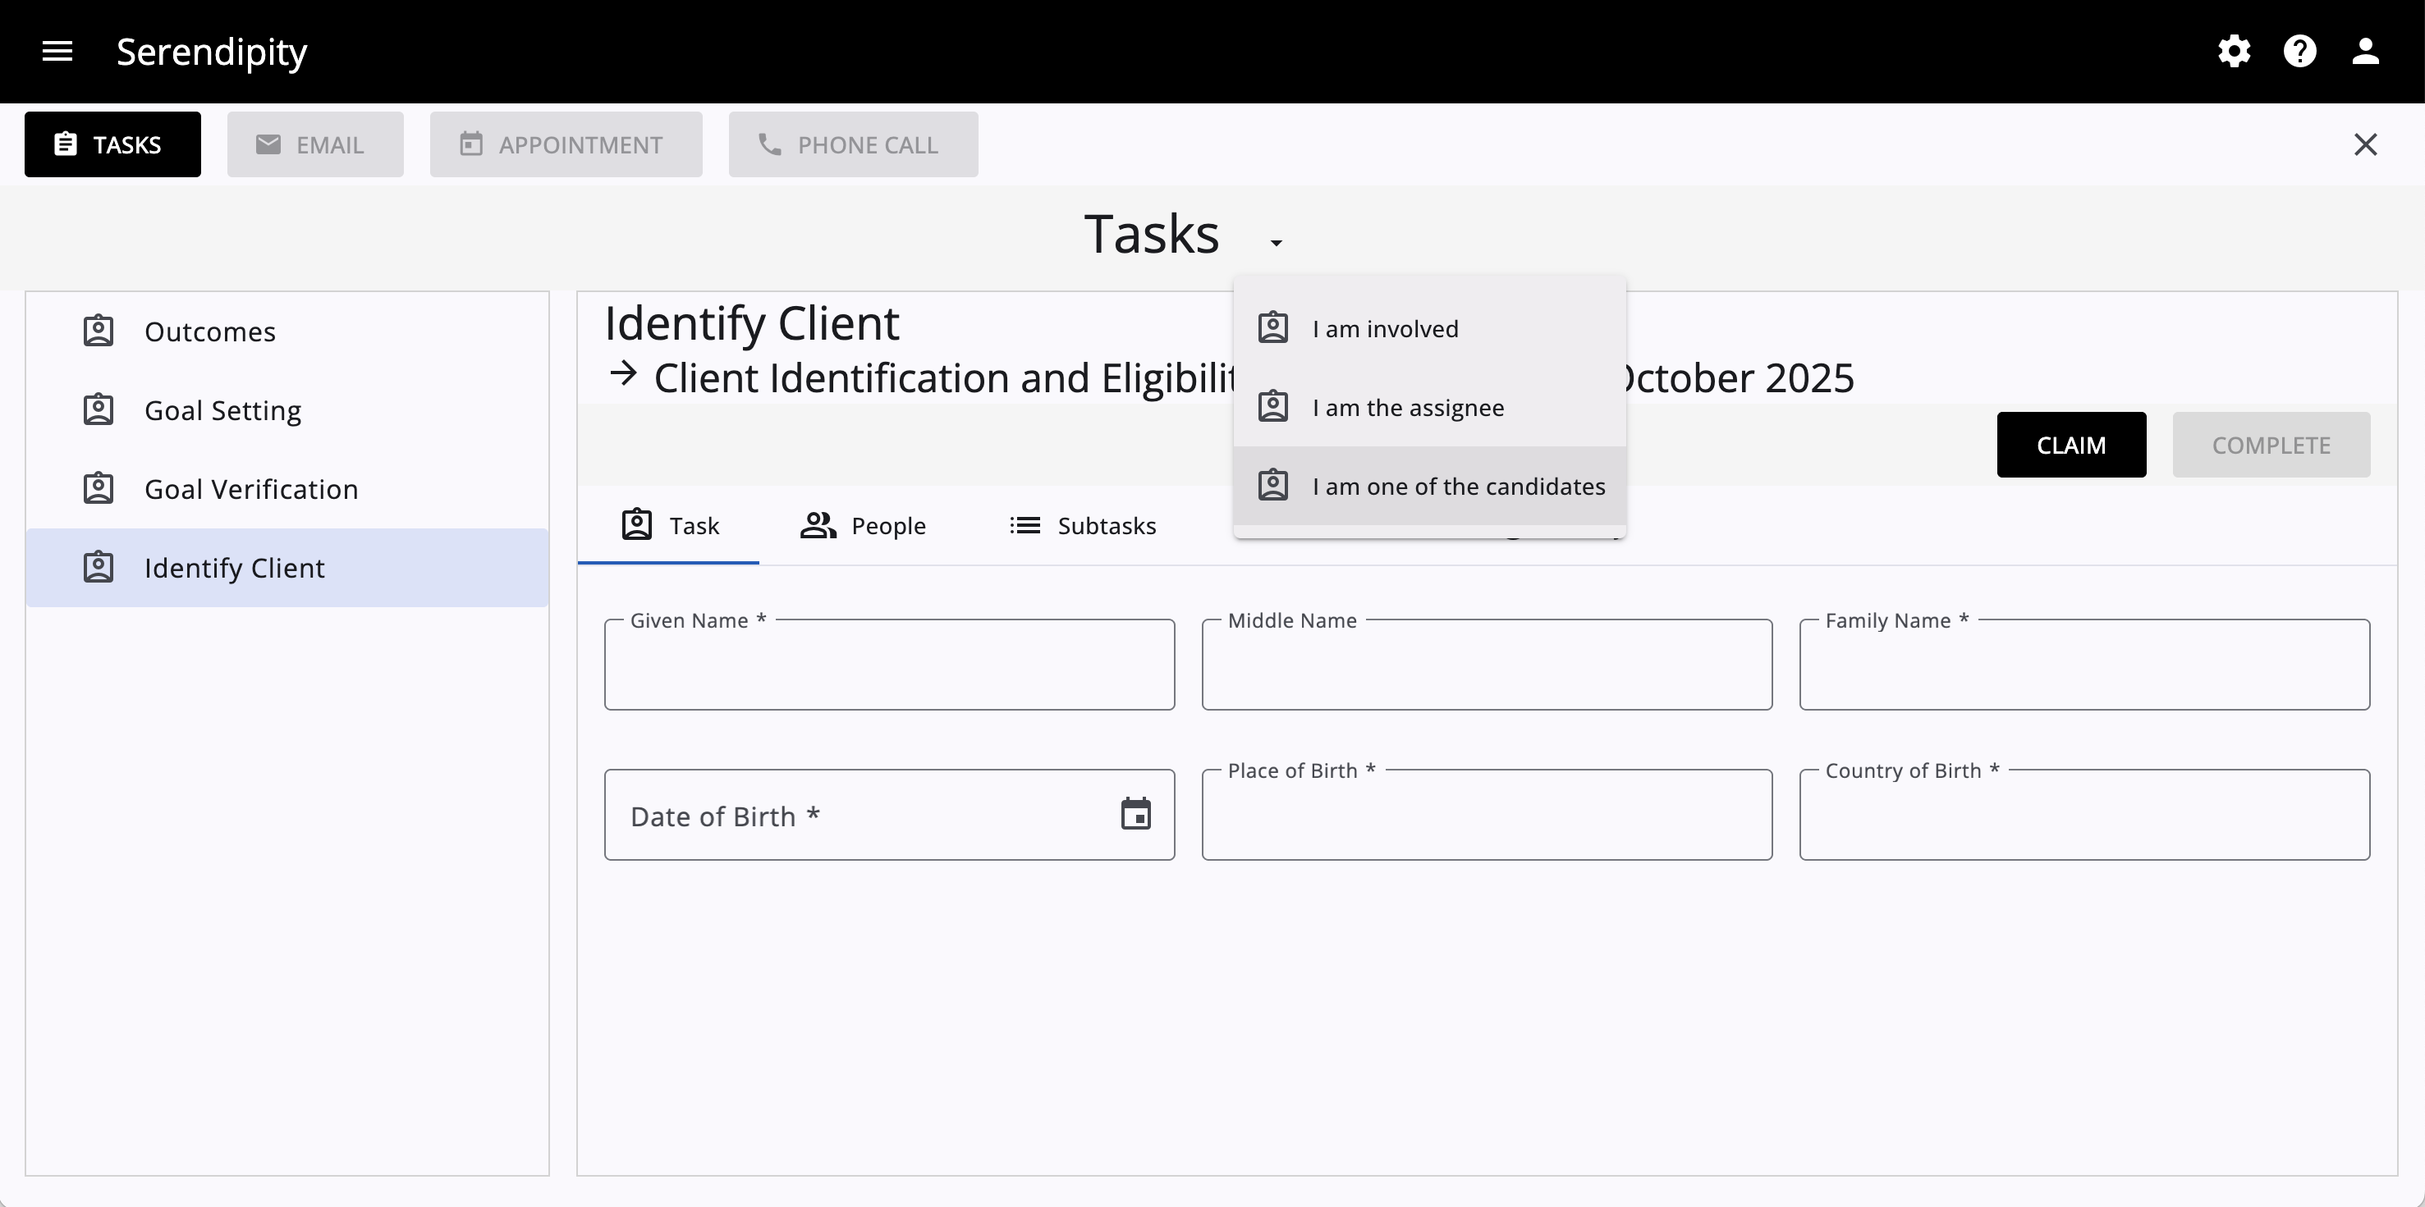
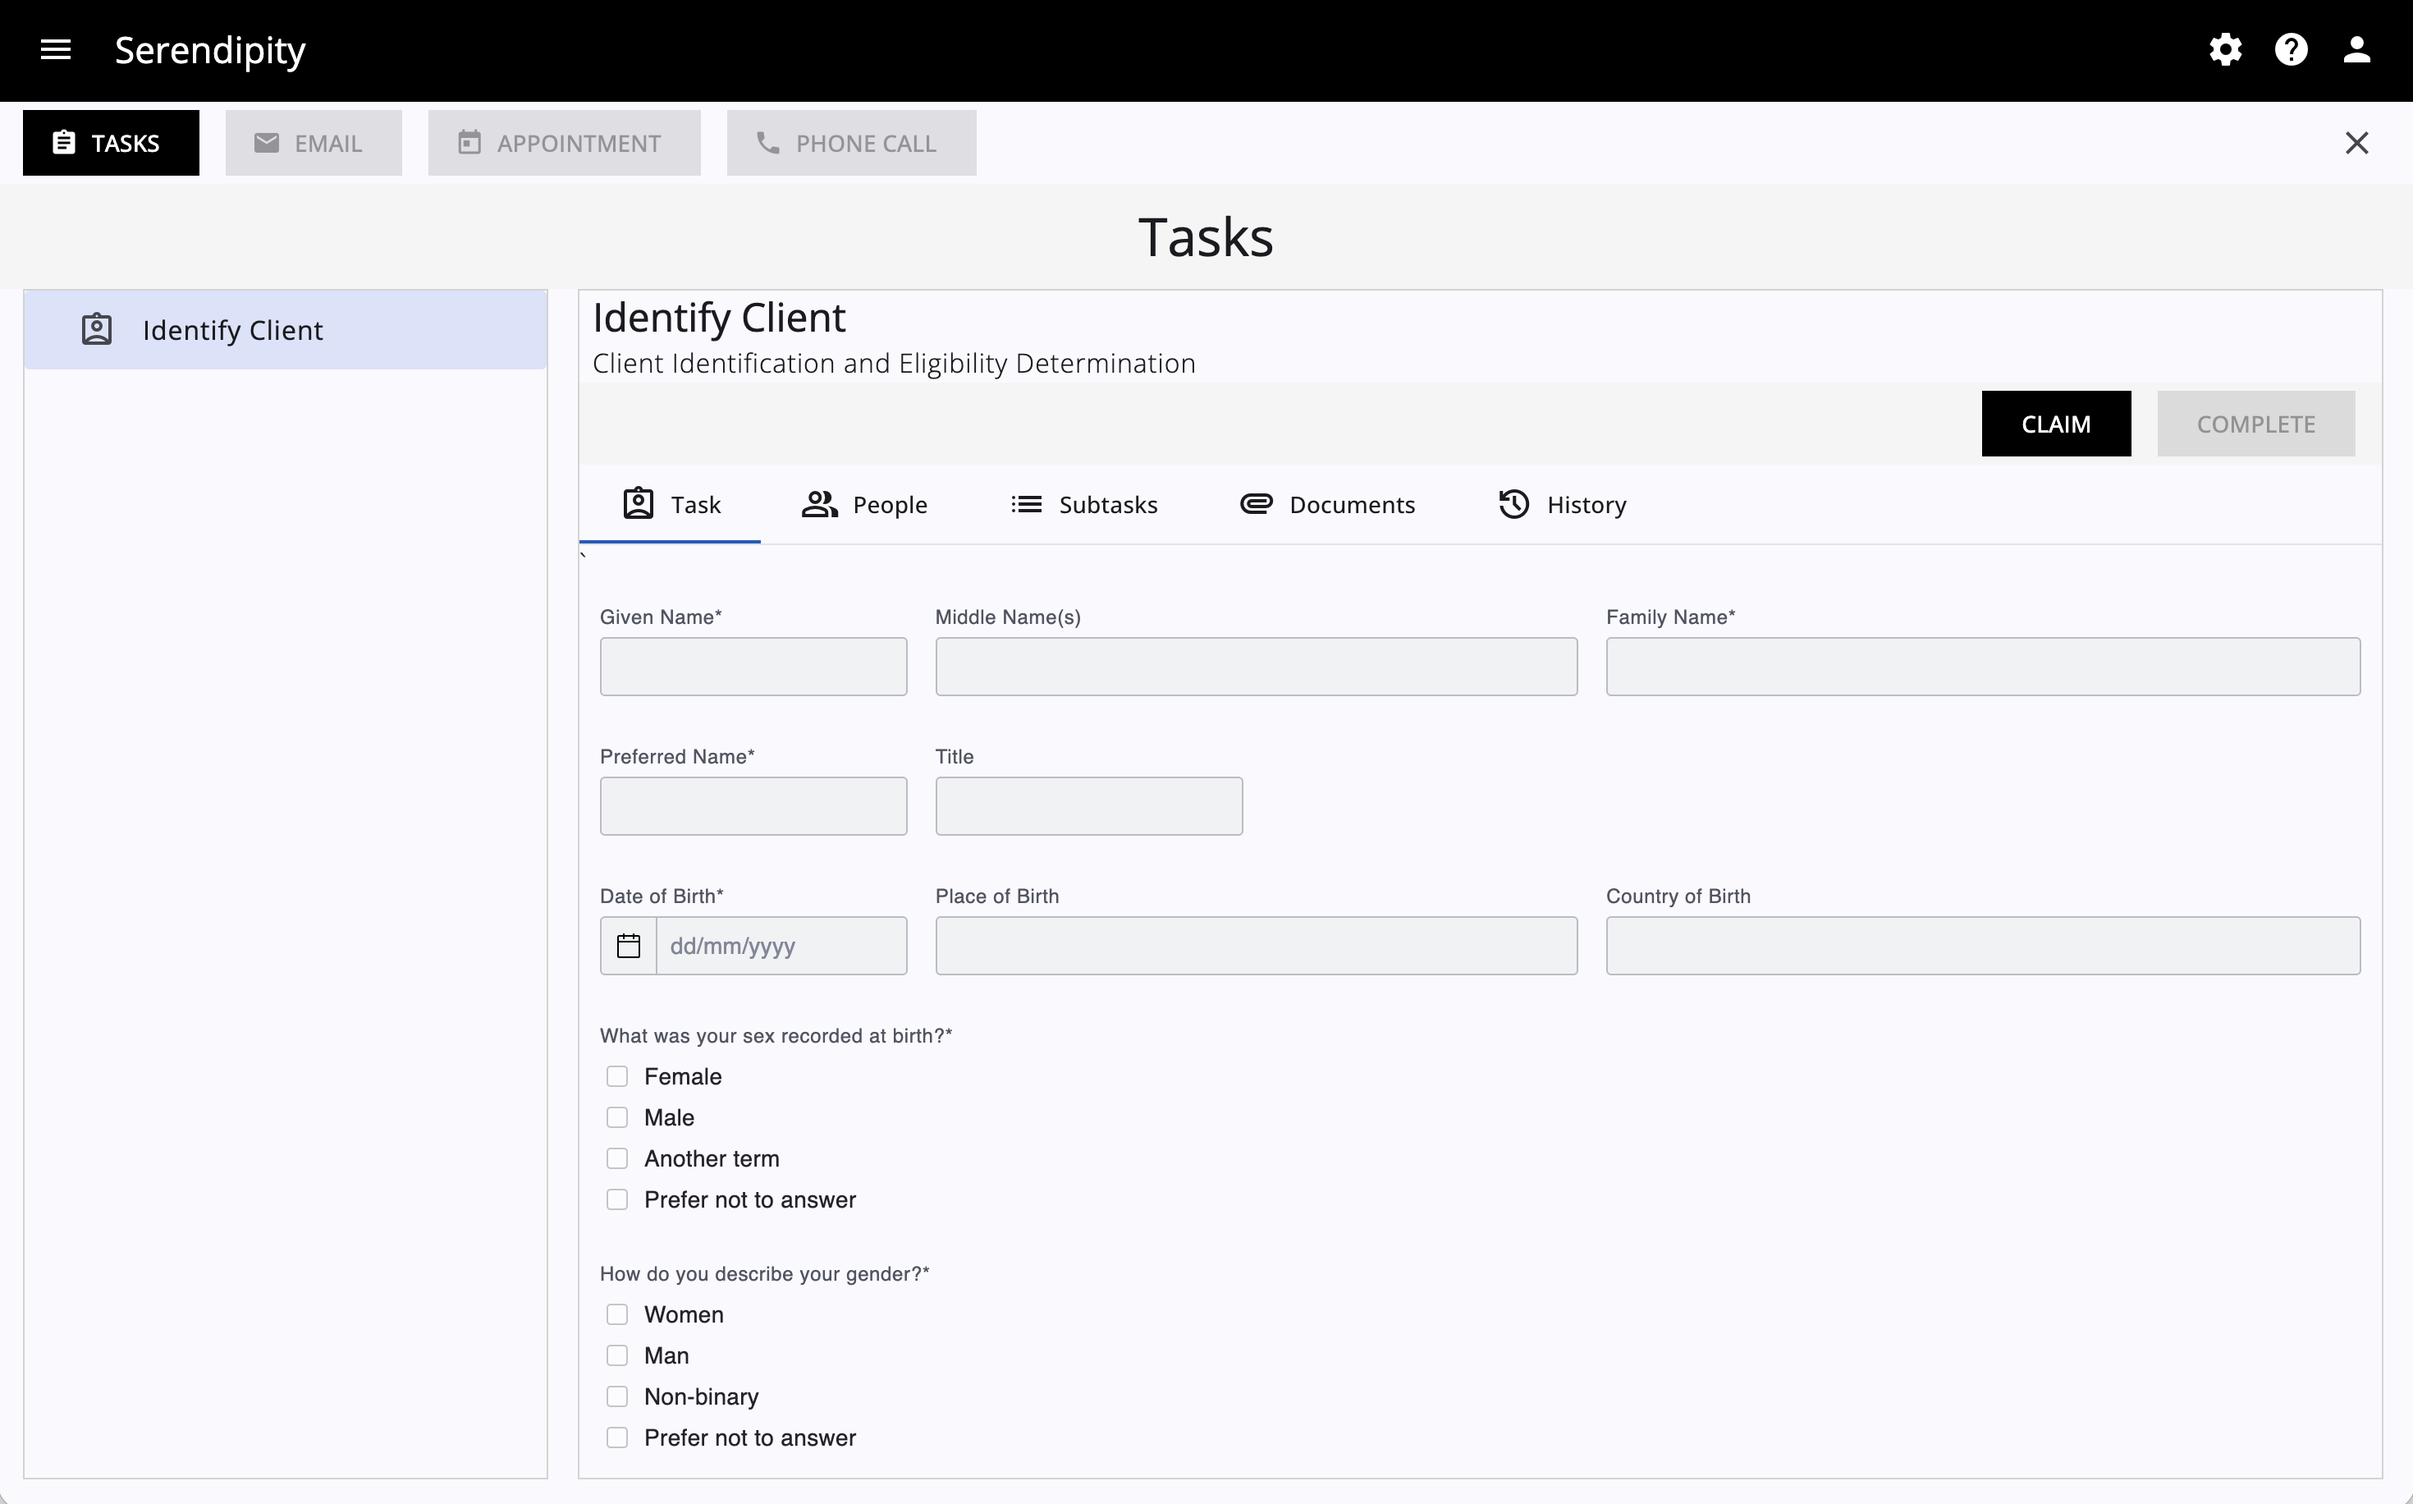
Updated the Developer docs

diff --git a/frontend/projects/serendipity-camunda-lib/src/lib/components/task/task.ts b/frontend/projects/serendipity-camunda-lib/src/lib/components/task/task.ts
@@ -149,7 +149,13 @@ export class Task implements AfterViewInit, OnDestroy, OnInit, OnChanges, OnDest
     if (this.schema) {
 
       try {
+
         await this.formInstance.importSchema(this.schema, this.data);
+
+        if (this.task && this.task.assignee === null) {
+          this.formInstance.setProperty('readOnly', true);
+        }
+
       } catch (err) {
         this.logger.error(err);
       }
@@ -244,6 +250,8 @@ export class Task implements AfterViewInit, OnDestroy, OnInit, OnChanges, OnDest
           // this.logger.info('response: ' + JSON.stringify(response, null, 2))
 
           this.task.assignee = taskAction.assignee;
+
+          this.formInstance.setProperty('readOnly', false);
 
         });
 
